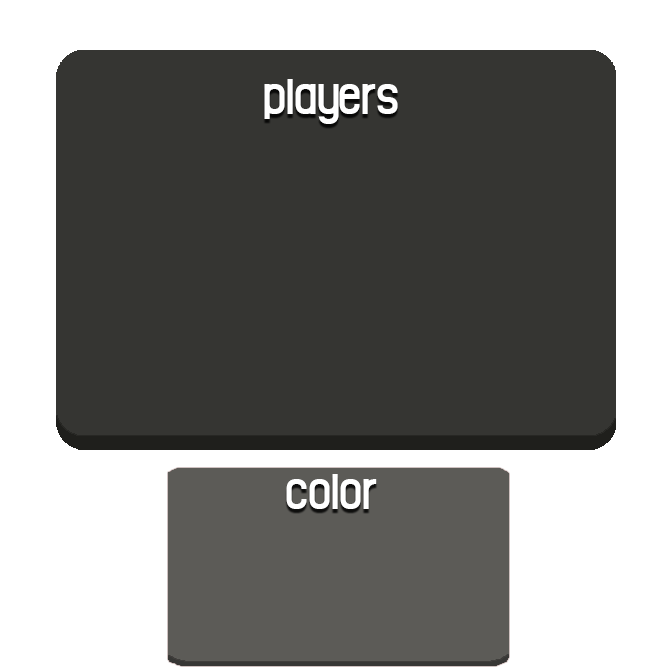
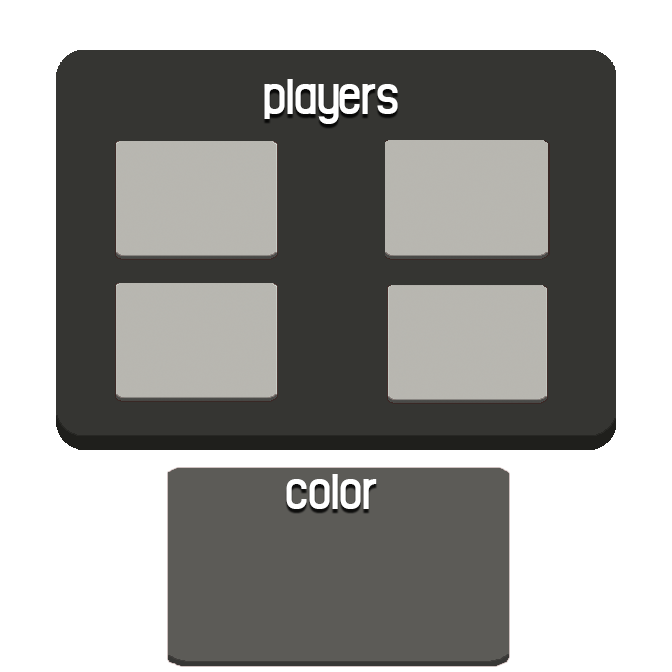
Avances Con Escenas

Changed region(s): [[0.1562, 0.1875, 0.4375, 0.5938], [0.5625, 0.1875, 0.8125, 0.5938]]

diff --git a/Src/Scenes/ColorSelection.cc b/Src/Scenes/ColorSelection.cc
@@ -1,0 +1,92 @@
+#include "ColorSelection.h"
+#include "../EntityComponent/Entity.h"
+
+#include "../EntityComponent/Components/Image.h"
+#include "../EntityComponent/Components/Text.h"
+#include "../EntityComponent/Components/HostGameButton.h"
+
+#include "../Utils/Texture.h"
+#include "../Utils/SDLUtils.h"
+
+#include "../Render/Window.h"
+
+#include <iostream>
+
+ColorSelection::ColorSelection() : Scene("ColorSelection")
+{
+	/*
+		BACKGROUND
+	*/
+	auto background = addEntity("Background");
+	background.get()->addComponent(new Image("battleBackground", 672, 672, 0, 0));
+
+    auto menuLayer = addEntity("MenuLayer");
+    menuLayer.get()->addComponent(new Image("networkMenuBg", 672, 672, 0, 0));
+    menuLayer.get()->setDepth(1);
+
+    /*
+        NETWORK DECORATION
+    */
+    auto colorSelectionDeco = addEntity("ColorSelectionDeco");
+    colorSelectionDeco.get()->addComponent(new Image("colorSelectionDeco", 672, 672, 0, 0));
+    colorSelectionDeco.get()->setDepth(2);
+
+    /*
+        COLORS BUTTONS
+    */
+
+    auto redButton = addEntity("RedColorButton");
+    redButton.get()->setDepth(3);
+    auto redColorButton = new HostGameButton(&sdlutils().images().at("redButton"), 203, 523, 90, 65);	
+	redButton.get()->addComponent(redColorButton);
+
+    auto blueButton = addEntity("BlueColorButton");
+    blueButton.get()->setDepth(3);
+    auto blueColorButton = new HostGameButton(&sdlutils().images().at("blueButton"), 203, 592, 90, 65);	
+	blueButton.get()->addComponent(blueColorButton);
+
+    auto purpleButton = addEntity("PurpleColorButton");
+    purpleButton.get()->setDepth(3);
+    auto purpleColorButton = new HostGameButton(&sdlutils().images().at("purpleButton"), 300, 523, 90, 65);	
+	purpleButton.get()->addComponent(purpleColorButton);
+
+    auto yellowButton = addEntity("YellowColorButton");
+    yellowButton.get()->setDepth(3);
+    auto yellowColorButton = new HostGameButton(&sdlutils().images().at("yellowButton"), 300, 592, 90, 65);	
+	yellowButton.get()->addComponent(yellowColorButton);
+
+
+    auto grayButton = addEntity("GrayColorButton");
+    grayButton.get()->setDepth(3);
+    auto grayColorButton = new HostGameButton(&sdlutils().images().at("grayButton"), 405, 553, 90, 65);	
+	grayButton.get()->addComponent(grayColorButton);
+
+
+
+    /*
+        COLORS DECO
+    */
+    auto redButtonDeco = addEntity("RedButtonDeco");
+    redButtonDeco.get()->setDepth(3);
+	redButtonDeco.get()->addComponent(new Image(&sdlutils().images().at("redColorDeco"), 180, 120, 115, 140));
+
+    auto blueButtonDeco = addEntity("BlueButtonDeco");
+    blueButtonDeco.get()->setDepth(3);
+	blueButtonDeco.get()->addComponent(new Image(&sdlutils().images().at("blueColorDeco"), 180, 120, 385, 140));
+
+    auto yellowButtonDeco = addEntity("YellowButtonDeco");
+    yellowButtonDeco.get()->setDepth(3);
+	yellowButtonDeco.get()->addComponent(new Image(&sdlutils().images().at("yellowColorDeco"), 180, 120, 115, 283));
+
+    auto purpleButtonDeco = addEntity("PurlpleButtonDeco");
+    purpleButtonDeco.get()->setDepth(3);
+	purpleButtonDeco.get()->addComponent(new Image(&sdlutils().images().at("purpleColorDeco"), 180, 120, 385, 283));
+
+    /*
+        G
+    */
+
+}
+
+ColorSelection::~ColorSelection(){
+}

diff --git a/Src/Utils/SDLUtils.cc b/Src/Utils/SDLUtils.cc
@@ -38,7 +38,7 @@ void SDLUtils::initSDLExtensions() {
 	// 	}
 	
 	// }
-	
+	std::cout << "Finished initialization of libraries\n";
 		
 }
 
@@ -63,8 +63,21 @@ void SDLUtils::loadResources() {
 	images_.emplace("networkMenuDeco", Texture(window().getRenderer(), "../../Resources/gfx/menuNetworkDeco.png"));
 	images_.emplace("hostButton", Texture(window().getRenderer(), "../../Resources/gfx/hostGameButton.png"));
 	images_.emplace("joinButton", Texture(window().getRenderer(), "../../Resources/gfx/joinGameButton.png"));
-	images_.emplace("ipTextBox", Texture(window().getRenderer(), "../../Resources/gfx/ipTextBox.png"));
+	images_.emplace("textBox", Texture(window().getRenderer(), "../../Resources/gfx/textBox.png"));
 
+	images_.emplace("colorSelectionDeco", Texture(window().getRenderer(), "../../Resources/gfx/colorSelectionDeco.png"));
+	images_.emplace("connectedIcon", Texture(window().getRenderer(), "../../Resources/gfx/connectedIcon.png"));
+	images_.emplace("disconnectedIcon", Texture(window().getRenderer(), "../../Resources/gfx/disconnectedIcon.png"));
+	images_.emplace("redColorDeco", Texture(window().getRenderer(), "../../Resources/gfx/redColorDeco.png"));
+	images_.emplace("blueColorDeco", Texture(window().getRenderer(), "../../Resources/gfx/blueColorDeco.png"));
+	images_.emplace("yellowColorDeco", Texture(window().getRenderer(), "../../Resources/gfx/yellowColorDeco.png"));
+	images_.emplace("purpleColorDeco", Texture(window().getRenderer(), "../../Resources/gfx/purpleColorDeco.png"));
+	images_.emplace("grayColorDeco", Texture(window().getRenderer(), "../../Resources/gfx/grayColorDeco.png"));
+	images_.emplace("redButton", Texture(window().getRenderer(), "../../Resources/gfx/redButton.png"));
+	images_.emplace("blueButton", Texture(window().getRenderer(), "../../Resources/gfx/blueButton.png"));
+	images_.emplace("yellowButton", Texture(window().getRenderer(), "../../Resources/gfx/yellowButton.png"));
+	images_.emplace("purpleButton", Texture(window().getRenderer(), "../../Resources/gfx/purpleButton.png"));
+	images_.emplace("grayButton", Texture(window().getRenderer(), "../../Resources/gfx/grayButton.png"));
 
 	/*
 		SOUNDS	

diff --git a/Src/EntityComponent/Components/HostGameButton.cc b/Src/EntityComponent/Components/HostGameButton.cc
@@ -3,7 +3,7 @@
 #include "../../Render/Window.h"
 #include "../../Utils/Vector2.h"
 #include "../../Scenes/SceneManager.h"
-#include "../../Scenes/Battle.h"
+#include "../../Scenes/ColorSelection.h"
 #include "../../Input/InputManager.h"
 #include "../../Utils/SDLUtils.h"
 
@@ -15,6 +15,9 @@ HostGameButton::HostGameButton(string textureName, int x, int y , int w, int h)
     mWidth = mIniWidth = w;
     mHeight = mIniHeight = h;
 
+	mMaxWidth = mWidth + 10;
+	mMaxHeight = mHeight + 10;
+
 	mBtnTexture = &sdlutils().images().at(textureName);
 }
 
@@ -25,6 +28,9 @@ HostGameButton::HostGameButton(Texture* texture, int x, int y , int w, int h)
 
     mWidth = mIniWidth = w;
     mHeight = mIniHeight = h;
+
+	mMaxWidth = mWidth + 10;
+	mMaxHeight = mHeight + 10;
 
     mBtnTexture = texture;
 }
@@ -45,21 +51,27 @@ void HostGameButton::update(const double& dt)
 	SDL_GetMouseState(&x, &y);
 
 	if (x >= mPosX && x < mPosX + mWidth && y >= mPosY && y < mPosY + mHeight) {
+		setHover(true);
 
 		if (inputManager().getButton("leftclick")) {
 			//mClickAudio->play();
 			execute();
 			
 		}
-		// else if (stoppedSound) {
-		// 	toggleSound = true;
-		// 	stoppedSound = false;
-		// 	if (mHoverAudio != nullptr)
-		// 	mHoverAudio->play();
-		// }
 	}
-	// else
-	// 	toggleSound = false;
+	else{
+		setHover(false);
+	}
+
+	// Hover Anim
+	if (mIsHover){
+		mWidth = SimpleLerp::Lerp(mWidth, mMaxWidth, 0.1);
+		mHeight = SimpleLerp::Lerp(mHeight, mMaxHeight, 0.1);
+	}
+	else{
+		mWidth = SimpleLerp::Lerp(mWidth, mIniWidth, 0.1);
+		mHeight = SimpleLerp::Lerp(mHeight, mIniHeight, 0.1);
+	}
 }
 
 void HostGameButton::render(){
@@ -69,19 +81,11 @@ void HostGameButton::render(){
     }
 }
 
-void HostGameButton::toggleHover()
-{
-	// if (!toggleSound && !stoppedSound)
-	// {
-	// 	stoppedSound = true;
-	// }
-}
-
 void HostGameButton::execute()
 {
 	// soundManager().stopEverySound();
 
     // Create game scene
-	Scene* battleTest = new Battle(1);
-	sceneManager().change(battleTest);
+	Scene* colorSelection = new ColorSelection();
+	sceneManager().change(colorSelection);
 }

diff --git a/Src/Scenes/OnlineSelection.cc b/Src/Scenes/OnlineSelection.cc
@@ -45,7 +45,7 @@ OnlineSelection::OnlineSelection() : Scene("OnlineSelection")
     */
     auto ipTextBox = addEntity("IpTextBox");
     ipTextBox.get()->setDepth(3);
-	ipTextBox.get()->addComponent(new Image("ipTextBox", 280, 100, 355, 285));
+	ipTextBox.get()->addComponent(new Image("textBox", 280, 100, 355, 285));
 
 
     /*
@@ -61,6 +61,45 @@ OnlineSelection::OnlineSelection() : Scene("OnlineSelection")
     /*
         NAME
     */
+
+    // //Boton para escribir el nombre
+	// nombre = new UiButton(mGame, mGame->getNombre(), "ip", { 255, 255, 255, 255 }, { 0, 0, 0, 0 }, sdlutils().width() / 2 - 120, opcPant->getHeight() - 200);
+	// cursor_ = new GameObject(mGame);
+	// nombre->setInitialPosition(sdlutils().width() / 2 - 120, opcPant->getHeight() - 200);
+	// nombre->setActive(false);
+	
+	// nombre->setAction([this](Game* mGame, bool& exit) {
+
+	// 	char c = ih().getTypedKey();
+	// 	string nombrePlayer = mGame->getNombre();
+
+	// 	if (c != ' ')
+	// 	{
+	// 		if (c == '\b')
+	// 		{
+
+	// 			if (!nombrePlayer.empty())
+	// 				nombrePlayer.pop_back();
+	// 			else
+	// 				nombrePlayer = ' ';
+	// 		}
+
+	// 		else if (nombrePlayer.size() < maxCaracteres) {
+	// 			nombrePlayer += c;
+	// 		}
+
+	// 		if (nombrePlayer.empty())
+	// 			nombrePlayer = ' ';
+
+	// 		mGame->setNombre(nombrePlayer);
+
+	// 		nombre->setTexture(nombrePlayer, string("ip"), { 255, 255, 255, 255 }, { 0, 0, 0, 0 });
+	// 		nombre->setDimension();
+	// 	}
+	// 	nombre->render(nullptr);
+	// 	});
+
+	// optionsMenu.push_back(nombre);
 
     /*
         BACK BUTTON

diff --git a/Src/SnakeMain/Game.cc b/Src/SnakeMain/Game.cc
@@ -34,10 +34,10 @@ bool Game::setup(std::string gameName)
 	createInput();
 
 	// Load Scene
-	Scene* battleTest = new Battle(1);
-	sceneManager().loadScene(battleTest);
-	// Scene* titleScreen = new TitleScreen();
-	// sceneManager().loadScene(titleScreen);
+	// Scene* battleTest = new Battle(1);
+	// sceneManager().loadScene(battleTest);
+	Scene* titleScreen = new TitleScreen();
+	sceneManager().loadScene(titleScreen);
 	
 	// Start time
 	mTime = new Time(60);

diff --git a/Src/EntityComponent/Components/UIButton.h b/Src/EntityComponent/Components/UIButton.h
@@ -36,6 +36,11 @@ public:
 	virtual void update(const double& dt);
     virtual void render();
 
+    /*
+    *Changes certain values to allow a sound to be playied only ione time when hovwering a button
+    */
+    virtual void setHover(bool newState);
+
     inline Texture* getTexture(){
 		return mBtnTexture;
 	}

diff --git a/Src/EntityComponent/Components/SinglePlayerButton.h b/Src/EntityComponent/Components/SinglePlayerButton.h
@@ -37,14 +37,6 @@ public:
     void execute() override;
 
     void render() override;
-
-    /*
-    *Changes certain values to allow a sound to be playied only ione time when hovwering a button
-    */
-    void setHover(bool newState);
-
-
-
 };
 
 #endif

diff --git a/Src/Scenes/ColorSelection.h b/Src/Scenes/ColorSelection.h
@@ -1,0 +1,16 @@
+#pragma once
+
+#ifndef __SCENES_COLOR_SELECTION
+#define __SCENES_COLOR_SELECTION
+
+#include "Scene.h"
+
+class ColorSelection : public Scene {
+private:
+    
+public:
+    ColorSelection();
+    ~ColorSelection() override;
+};
+
+#endif

diff --git a/Src/EntityComponent/Components/MultiPlayerButton.h b/Src/EntityComponent/Components/MultiPlayerButton.h
@@ -38,11 +38,6 @@ public:
     void execute() override;
 
     void render() override;
-
-    /*
-    *Changes certain values to allow a sound to be playied only ione time when hovwering a button
-    */
-    void setHover(bool newState);
 };
 
 #endif

diff --git a/Src/EntityComponent/Components/HostGameButton.h b/Src/EntityComponent/Components/HostGameButton.h
@@ -37,14 +37,6 @@ public:
     void execute() override;
 
     void render() override;
-
-    /*
-    *Changes certain values to allow a sound to be playied only ione time when hovwering a button
-    */
-    void toggleHover();
-
-
-
 };
 
 #endif

diff --git a/Src/EntityComponent/Components/SinglePlayerButton.cc b/Src/EntityComponent/Components/SinglePlayerButton.cc
@@ -81,11 +81,6 @@ void SinglePlayerButton::render(){
     }
 }
 
-void SinglePlayerButton::setHover(bool newState)
-{
-	mIsHover = newState;
-}
-
 void SinglePlayerButton::execute()
 {
 	// soundManager().stopEverySound();

diff --git a/Src/EntityComponent/Components/MultiPlayerButton.cc b/Src/EntityComponent/Components/MultiPlayerButton.cc
@@ -85,11 +85,6 @@ void MultiPlayerButton::render(){
     }
 }
 
-void MultiPlayerButton::setHover(bool newState)
-{
-	mIsHover = newState;
-}
-
 void MultiPlayerButton::execute()
 {
 	// soundManager().stopEverySound();
